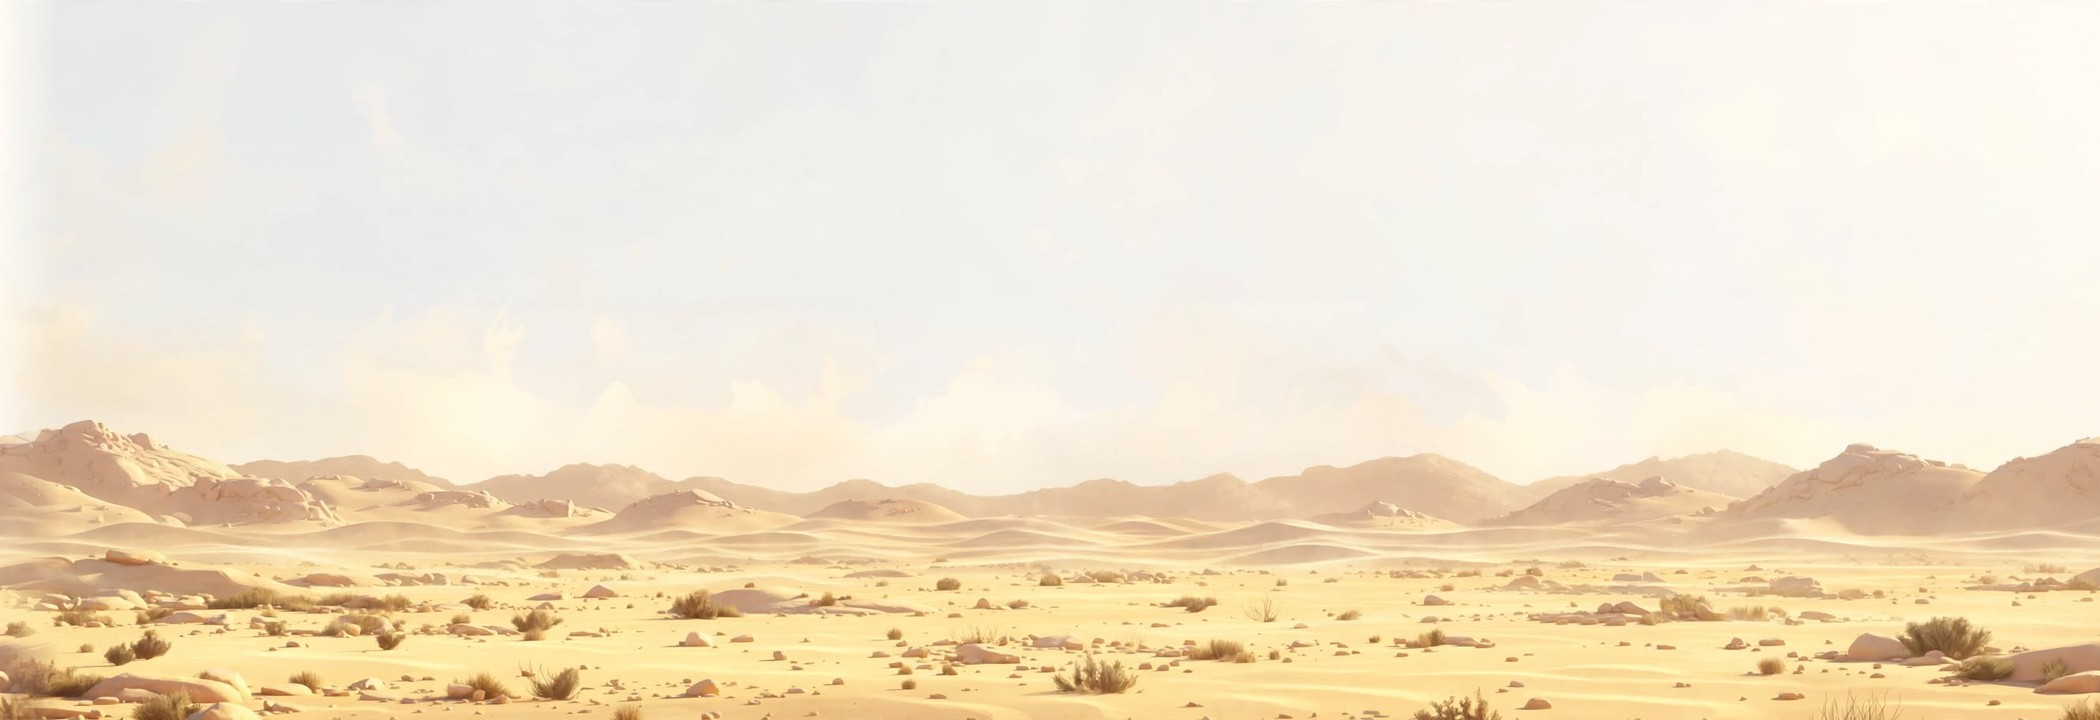
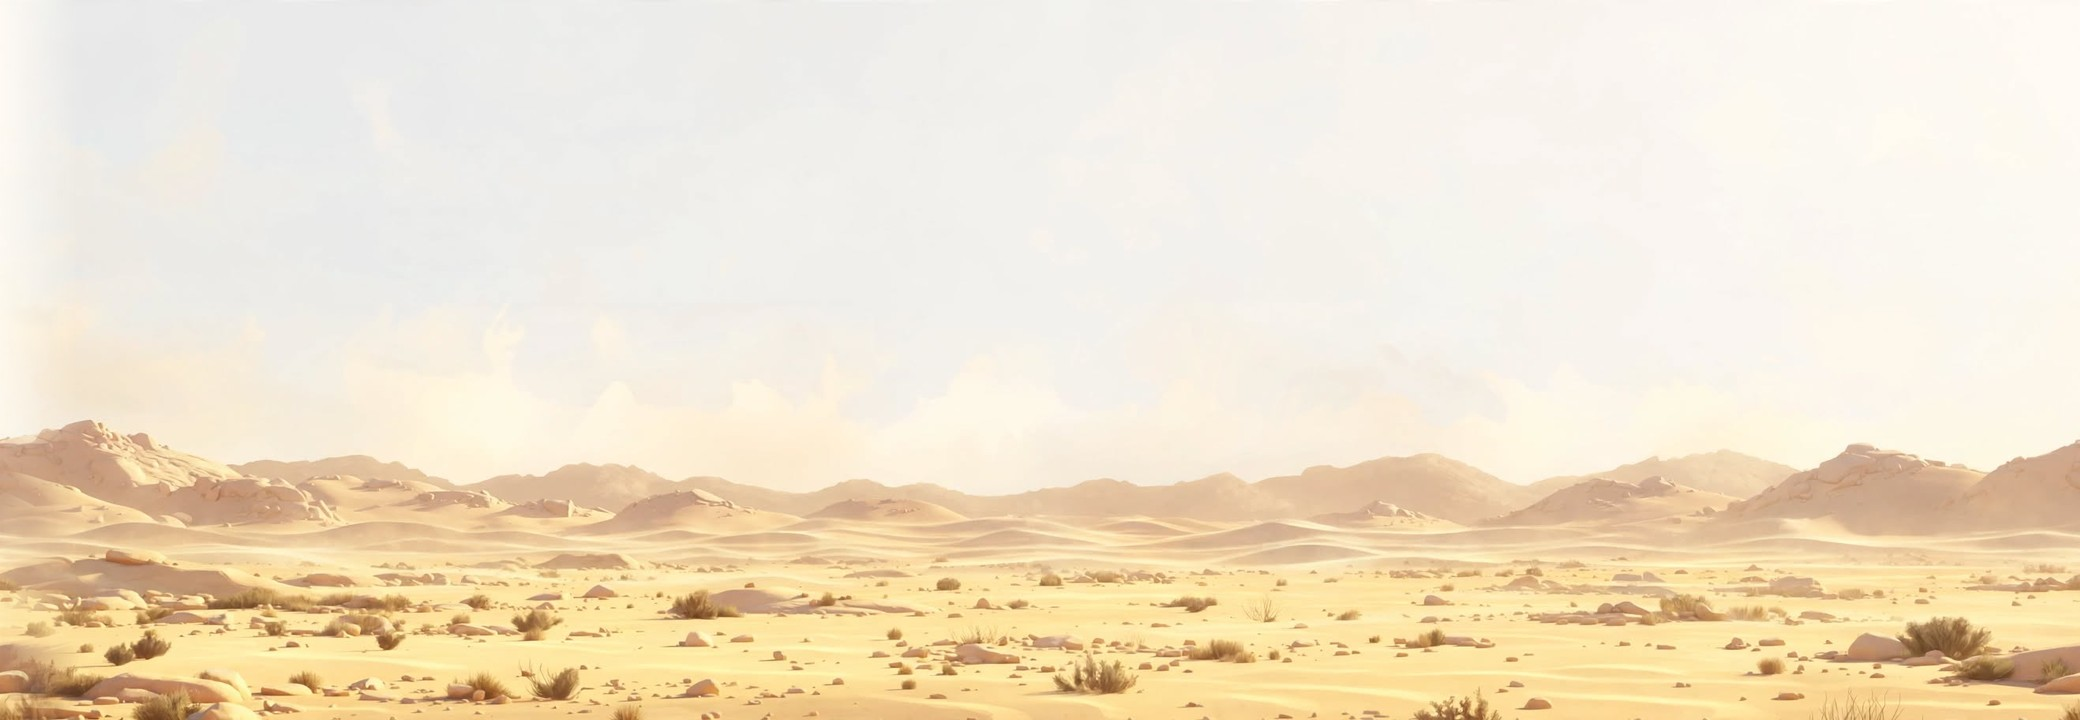
Ziph: the Ziphite hunched by one of Saul's men while 23:19-22 are up (Glen: the wording is what matters), 23:20 in the Ziphites' own words, 23:19 whole; layers: no see-through band at the repeat, Maon rolled to start between its rocks
Claude-Session: https://claude.ai/code/session_018JCxWJ972csv1aoHy7ivxa

diff --git a/game/ziph.js b/game/ziph.js
@@ -122,6 +122,11 @@ function z5Build(R) {
   { const rm = "hachilah", X = k => (c + k) * T;
     ground(c, c + 149);
     campfire(c + 4, GR - 1); z5.back.hachilah = X(5);
+    // (Glen 11-15: "the ziphites hunched whispering to Saul's men for now, since it is the wording that matters") a
+    //  Ziphite and one of Saul's men, there only while the words of 23:19-22 are up
+    z5.whisper = false;
+    z5Person(rm, "ziphite_point", X(11), 1, () => z5.whisper, Z5.LOOK.K).once = true;
+    z5Person(rm, "saul_soldier_look", X(13) + 20, -1, () => z5.whisper, Z5.SNEAK.K).once = true;
     const look = (k, fire, facing) => z5.lookouts.push({ room: rm, x: X(k), x0: X(k), fire: X(fire), facing, f0: facing, state: "watch", t: Math.random() * 2, seen: 0, alpha: 1 });
     z5Hide(rm, "w4_z_hide_rock", X(18)); look(30, 38, -1); z5Hide(rm, "w4_rubble_sand", X(26));
     rLedge(rm, c + 40, 470, 4); rLedge(rm, c + 46, 370, 5); rRelic("z5_stone_hach", "stone", c + 48, onTop(370));
@@ -168,10 +173,11 @@ function z5Enter(r) {
   if (r.id === "hills" && !z5Has("z5_jonathan")) z5Tell("hills", "David stayed in the wilderness in the strongholds. Saul sought him every day, but God didn’t deliver him into his hand. (1 Samuel 23:14)");
   if (r.id === "hachilah" && !z5Has("z5_ziph_told")) {
     regionAdd("taken", "z5_ziph_told");
-    rPlay([{ wait: 0.5 },
-      { say: ["", "Then the Ziphites came up to Saul to Gibeah, saying, “Doesn’t David hide himself with us in the strongholds in the woods, in the hill of Hachilah?” (1 Samuel 23:19)"] },
+    rPlay([{ fn() { z5.whisper = true; for (const p of z5.people) if (p.room === "hachilah") p.t = 0; } }, { wait: 0.8 },
+      { say: ["", "Then the Ziphites came up to Saul to Gibeah, saying, “Doesn’t David hide himself with us in the strongholds in the woods, in the hill of Hachilah, which is on the south of the desert? (1 Samuel 23:19)"] },
+      { say: ["The Ziphites", "Now therefore, O king, come down. According to all the desire of your soul to come down; and our part will be to deliver him up into the king’s hand. (1 Samuel 23:20)"] },
       { say: ["Saul", "Please go make yet more sure, and know and see his place where his haunt is, and who has seen him there; for I have been told that he is very cunning. (1 Samuel 23:22)"] },
-      { fn() { toast("The Ziphites are watching for Saul. If a lookout sees David, he'll run to light his signal fire. Stay hidden, or stop him first: sling or sword."); } }]);
+      { fn() { z5.whisper = false; toast("The Ziphites are watching for Saul. If a lookout sees David, he'll run to light his signal fire. Stay hidden, or stop him first: sling or sword."); } }]);
   }
   if (r.id === "maon" && !z5Has("z5_ziphites")) {
     regionAdd("taken", "z5_ziphites");

diff --git a/tools/tests/z5whisper.js b/tools/tests/z5whisper.js
@@ -1,0 +1,11 @@
+// (11-15) Hachilah: a Ziphite hunched by one of Saul's men while 23:19-22 are up
+startSetup = () => {}; setup.active = false;
+const log = m => TEST_ERRORS.push("INFO " + m);
+const _say = sayLine; sayLine = (w, t) => { log("say: " + w + " | " + String(t).slice(0, 50)); return _say(w, t); };
+const at = (rm, k) => { const r = roomById(rm); moveParty((r.c0 + k) * T, GR * T); snapCamera(); };
+testRun([
+  { n: 1, fn() { region.save.taken = region.save.taken.filter(k => k !== "z5_ziph_told"); ["z5_ziphites", "z5_warned", "z5_erem", "z5_jonathan", "z5_jonathan_gone"].forEach(k => regionAdd("taken", k)); at("maon", 60); } }, { keys: [], n: 20 },
+  { n: 1, fn() { at("hachilah", 4); } }, { keys: [], n: 80, snap: true },
+  { keys: ["KeyZ"], n: 2 }, { keys: [], n: 40, snap: true }, { keys: ["KeyZ"], n: 2 }, { keys: [], n: 30 }, { keys: ["KeyZ"], n: 2 }, { keys: [], n: 40, snap: true },
+  { n: 1, fn() { log("whisper " + z5.whisper); } },
+]);

diff --git a/tools/make_layers.py b/tools/make_layers.py
@@ -17,6 +17,7 @@ ap = argparse.ArgumentParser(); ap.add_argument("far"); ap.add_argument("mid"); 
 ap.add_argument("--key", default="magenta"); ap.add_argument("--mid-h", type=int, default=560)
 ap.add_argument("--near-h", type=int, default=220); ap.add_argument("--near-bottom", type=float, default=1.0)
 ap.add_argument("--overlap", type=int, default=140)
+ap.add_argument("--roll", action="store_true")   # (11-15) start the mid at its emptiest middle column; no join at the repeat
 ap.add_argument("--seam", action="store_true")   # (11-15) cut the mid's ends at its emptiest columns
 ap.add_argument("--despill-all", action="store_true")   # (11-15, Ziph's Horesh) the key color taken out everywhere, not only at the rim
 ap.add_argument("--key-range", type=float, nargs=2, default=[80, 150])   # (11-15) key distance kept fully / gone fully (lower: less haze at the rim)
@@ -47,7 +48,7 @@ def blend(im, ov):   # the ends faded into each other: it repeats with no seam
     if x.shape[2] == 4:   # keyed: weight the colors by alpha, and keep the stronger alpha (no half-see-through ghost)
         wa, wb = A[..., 3:] / 255 * k, B[..., 3:] / 255 * (1 - k); ws = np.maximum(wa + wb, 1e-6)
         out[:, :ov, :3] = (A[..., :3] * wa + B[..., :3] * wb) / ws
-        out[:, :ov, 3] = np.maximum(A[..., 3] * np.sqrt(k[..., 0]), B[..., 3] * np.sqrt(1 - k[..., 0]))
+        out[:, :ov, 3] = np.maximum(A[..., 3], B[..., 3])   # (11-15: solid where either end is: no see-through band at the join)
     else:
         out[:, :ov] = A * k + B * (1 - k)
     return Image.fromarray(out.clip(0, 255).astype(np.uint8), im.mode)
@@ -57,13 +58,24 @@ blend(far, a.overlap).save(os.path.join(a.out, "far.jpg"), quality=90)
 
 mid = key(Image.open(a.mid)); bb = mid.getchannel("A").point(lambda v: 255 if v > 20 else 0).getbbox()
 mid = mid.crop((0, bb[1], mid.width, mid.height))
-if a.seam:   # (11-15, Ziph) the ends cut where the least is painted (between trees), so the repeat's blend has no ghost
+mid_ov = a.overlap
+if a.roll:   # (11-15, Maon) start at the emptiest column in the middle: its two ends are neighbours, so it repeats with no
+    #  join; the picture's own left and right edges meet inside it instead, blended over --overlap px
+    col = np.asarray(mid.getchannel("A")).astype(float)[: int(mid.height * 0.8)].sum(0); w = mid.width
+    x0 = int(w * 0.3) + int(np.argmin(col[int(w * 0.3): int(w * 0.7)]))
+    A_, B_ = np.asarray(mid.crop((x0, 0, w, mid.height))).astype(float), np.asarray(mid.crop((0, 0, x0, mid.height))).astype(float)
+    ov = a.overlap; k = np.linspace(0, 1, ov)[None, :, None]
+    L, R = A_[:, -ov:], B_[:, :ov]; wa, wb = L[..., 3:] / 255 * (1 - k), R[..., 3:] / 255 * k; ws = np.maximum(wa + wb, 1e-6)
+    J = np.zeros_like(L); J[..., :3] = (L[..., :3] * wa + R[..., :3] * wb) / ws; J[..., 3] = np.maximum(L[..., 3], R[..., 3])
+    mid = Image.fromarray(np.concatenate([A_[:, :-ov], J, B_[:, ov:]], 1).clip(0, 255).astype(np.uint8), "RGBA"); print("  mid rolled at", x0)
+    mid_ov = 0
+elif a.seam:   # (11-15, Ziph) the ends cut where the least is painted (between trees), so the repeat's blend has no ghost
     col = np.asarray(mid.getchannel("A")).astype(float)[: int(mid.height * 0.8)].sum(0); w = mid.width; q = int(w * 0.22)
     x0 = int(np.argmin(col[:q])); x1 = w - q + int(np.argmin(col[w - q:]))
     mid = mid.crop((x0, 0, x1, mid.height)); print("  mid seam cut at", x0, x1)
 mid = mid.resize((round(mid.width * a.mid_h / mid.height), a.mid_h), Image.LANCZOS)
 can = Image.new("RGBA", (mid.width, 640)); can.paste(mid, (0, 640 - mid.height))
-blend(can, a.overlap).save(os.path.join(a.out, "mid.png"))
+blend(can, mid_ov).save(os.path.join(a.out, "mid.png"))
 
 nr = key(Image.open(a.near)); bot = round(nr.height * a.near_bottom)
 bb = nr.getchannel("A").point(lambda v: 255 if v > 20 else 0).getbbox()
